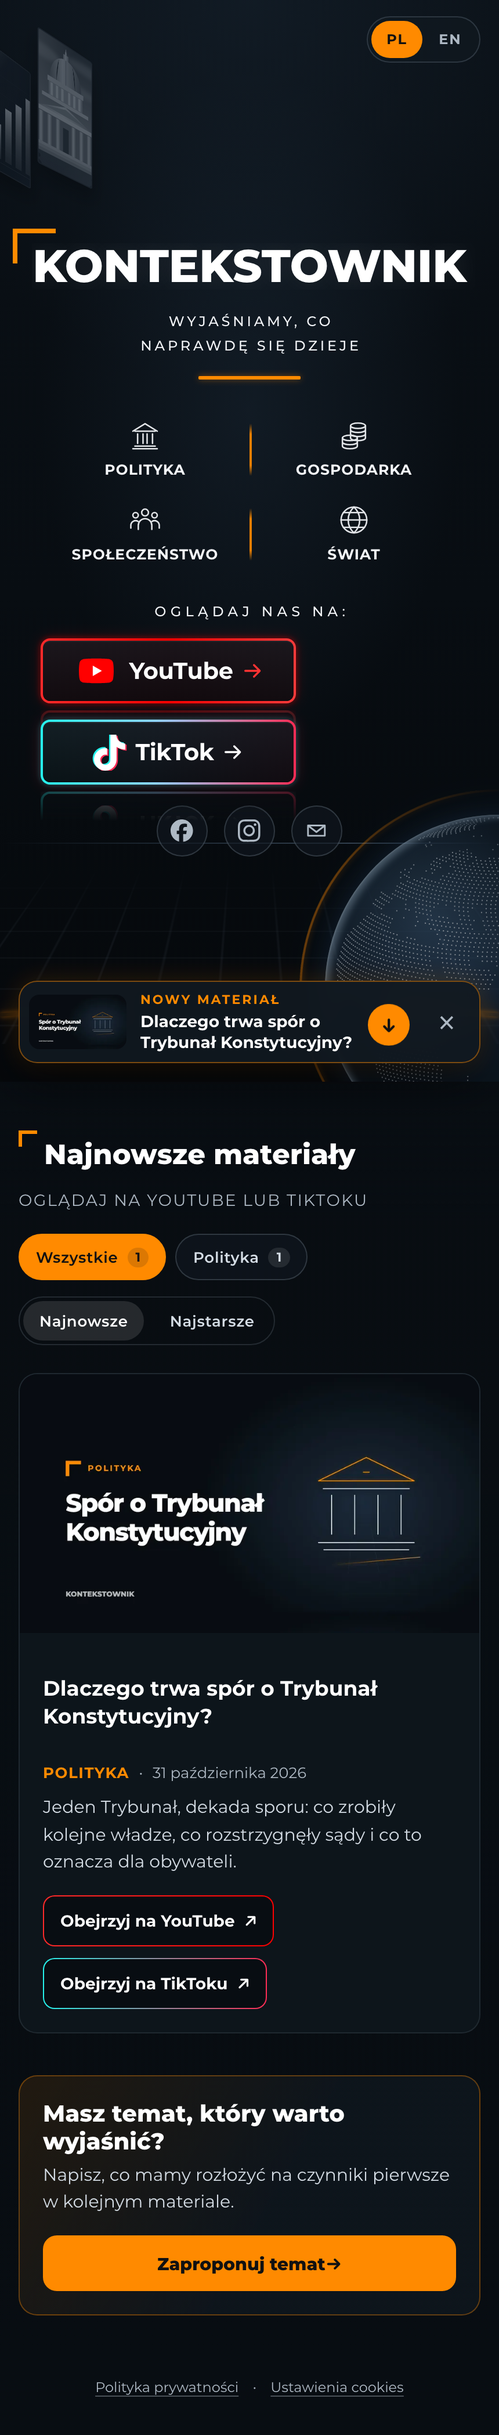
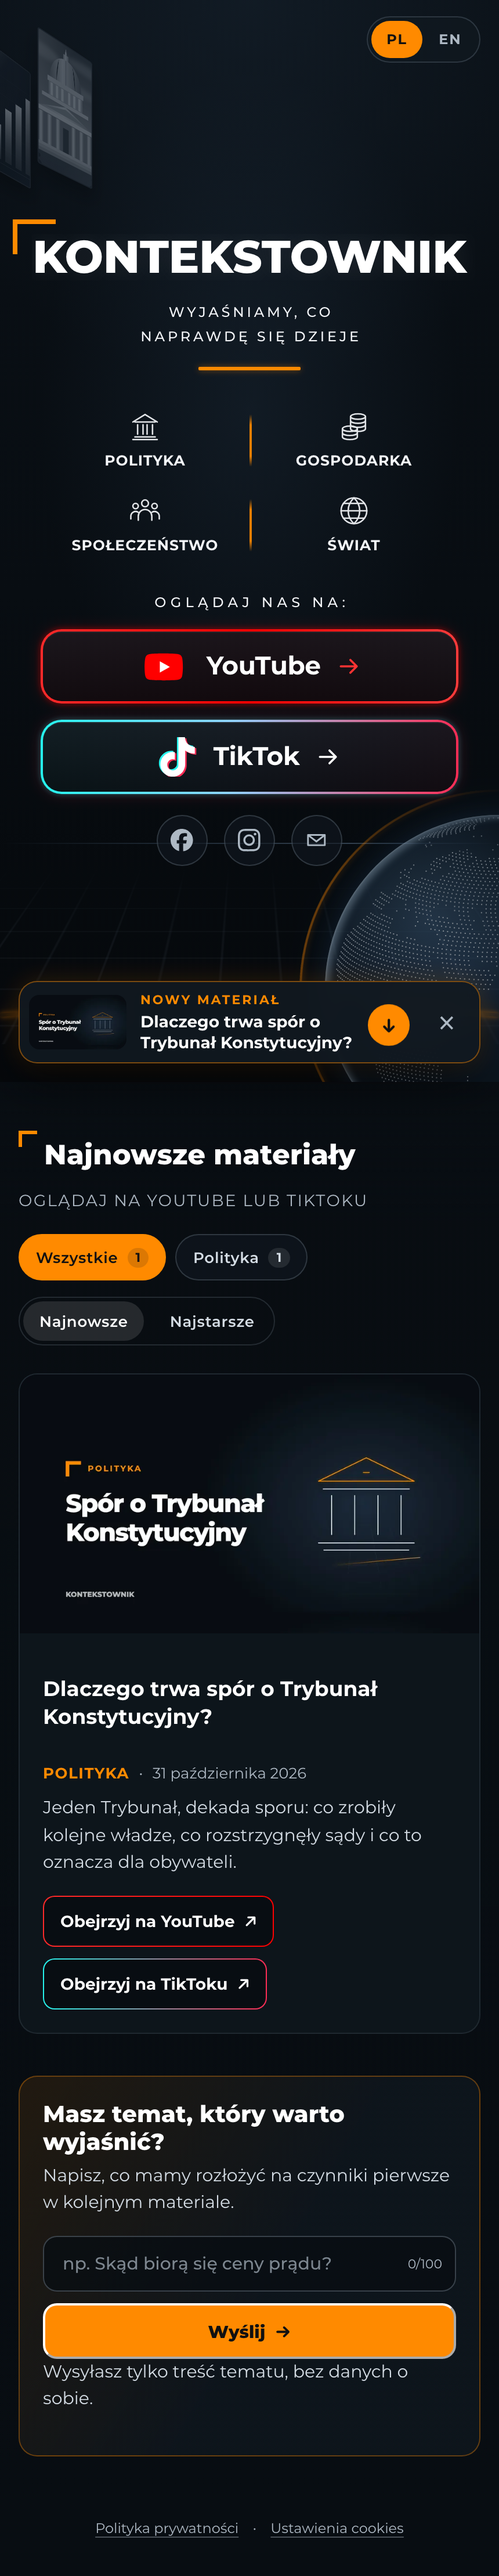
„Masz temat?”: pole do 100 znaków + Wyślij (Formularz Google, tylko treść, limit i pułapka na boty) zamiast maila; polityka prywatności PL/EN

diff --git a/src/scripts/topic-form.js b/src/scripts/topic-form.js
@@ -1,0 +1,44 @@
+// Wysyłka propozycji tematu (do 100 znaków) do Formularza Google. Wysyłamy wyłącznie treść tematu.
+// Odpowiedź Google jest nieprzezroczysta (no-cors), więc sukces = brak błędu sieci. Limit: 1 na minutę, 5 na dobę.
+const LIMIT_KEY = 'kontekstownik-topics';
+
+function recent() {
+  try { return JSON.parse(localStorage.getItem(LIMIT_KEY)) || []; } catch { return []; }
+}
+
+export function initTopicForms() {
+  document.querySelectorAll('[data-topic-form]').forEach((form) => {
+    const input = form.querySelector('input[name^="entry."]');
+    const count = form.querySelector('[data-topic-count]');
+    const status = form.querySelector('[data-topic-status]');
+    const hp = form.querySelector('[data-topic-hp]');
+    const button = form.querySelector('button[type="submit"]');
+    const say = (msg, ok) => { status.textContent = msg; status.dataset.state = ok ? 'ok' : 'err'; };
+
+    input.addEventListener('input', () => { count.textContent = `${input.value.length}/100`; status.textContent = ''; });
+
+    form.addEventListener('submit', async (e) => {
+      e.preventDefault();
+      const text = input.value.trim().replace(/\s+/g, ' ');
+      if (hp.value) return; // bot
+      if (text.length < 3) { say(form.dataset.short, false); input.focus(); return; }
+      const now = Date.now();
+      const sent = recent().filter((t) => now - t < 86400000);
+      if (sent.some((t) => now - t < 60000) || sent.length >= 5) { say(form.dataset.wait, false); return; }
+
+      button.disabled = true;
+      try {
+        await fetch(form.action, { method: 'POST', mode: 'no-cors', body: new URLSearchParams({ [input.name]: text }) });
+        try { localStorage.setItem(LIMIT_KEY, JSON.stringify([...sent, now])); } catch { /* bez limitu w trybie prywatnym */ }
+        form.reset();
+        count.textContent = '0/100';
+        say(form.dataset.ok, true);
+        window.gtag?.('event', 'topic_suggest'); // tylko fakt wysłania, nigdy treść
+      } catch {
+        say(form.dataset.err, false);
+      } finally {
+        button.disabled = false;
+      }
+    });
+  });
+}

diff --git a/src/styles/materials.css b/src/styles/materials.css
@@ -208,4 +208,31 @@
 }
 .topic-cta__btn:hover { transform: translateY(-2px); box-shadow: 0 8px 24px rgb(255 138 0 / 0.35); }
 .topic-cta__btn:focus-visible { outline: 3px solid #fff; outline-offset: 3px; }
-@media (max-width: 640px) { .topic-cta { padding: 20px; } .topic-cta__btn { width: 100%; justify-content: center; } }
+@media (max-width: 640px) { .topic-cta { padding: 20px; } }
+
+/* Pole propozycji tematu (topic-form.js) */
+.topic-form { flex: 1 1 380px; max-width: 560px; }
+.topic-form__row { position: relative; display: flex; gap: 10px; }
+.topic-form__input {
+  flex: 1;
+  min-width: 0;
+  width: 100%;
+  min-height: 48px;
+  padding: 0 64px 0 16px;
+  border-radius: 12px;
+  border: 1px solid rgb(200 220 240 / 0.25);
+  background: rgb(8 13 18 / 0.8);
+  color: #fff;
+  font: 500 15px/1.2 var(--font);
+}
+.topic-form__input::placeholder { color: rgb(174 185 196 / 0.7); }
+.topic-form__input:focus { outline: 3px solid var(--orange); outline-offset: 1px; border-color: transparent; }
+.topic-form__field { position: relative; flex: 1; min-width: 0; display: flex; }
+.topic-form__count { position: absolute; right: 12px; top: 50%; transform: translateY(-50%); font-size: 11px; color: var(--muted); pointer-events: none; }
+.topic-form__hint { margin: 8px 0 0; font-size: 12px; color: var(--muted); }
+.topic-form__status { margin: 6px 0 0; font-size: 14px; font-weight: 600; min-height: 1.2em; }
+.topic-form__status[data-state="ok"] { color: #7ee2a8; }
+.topic-form__status[data-state="err"] { color: #ffb1a8; }
+.topic-form__hp { position: absolute; left: -9999px; width: 1px; height: 1px; overflow: hidden; }
+.topic-cta__btn:disabled { opacity: 0.6; cursor: wait; }
+@media (max-width: 640px) { .topic-form__row { flex-direction: column; } .topic-cta__btn { justify-content: center; } }

diff --git a/polityka-prywatnosci/index.html b/polityka-prywatnosci/index.html
@@ -36,6 +36,10 @@
         Zbieramy informacje o wizycie: przybliżoną lokalizację (kraj, miasto), typ urządzenia i przeglądarki, źródło wejścia,
         odwiedzone podstrony oraz to, czy kliknięto przycisk YouTube lub TikTok. Google Analytics 4 nie zapisuje pełnych adresów IP.
         Sygnały reklamowe i Google Signals są wyłączone.</li>
+      <li><strong>Propozycja tematu</strong> – jeśli wyślesz temat przez pole „Masz temat, który warto wyjaśnić?”, trafia do nas
+        wyłącznie jego treść (do 100 znaków), zapisana w Formularzu Google na koncie administratora. Nie zbieramy przy tym adresu e-mail
+        ani innych danych o Tobie – prosimy, nie wpisuj w temacie danych osobowych. Podstawa: nasz prawnie uzasadniony interes
+        (art. 6 ust. 1 lit. f RODO) – poznanie tematów, które warto wyjaśnić.</li>
       <li><strong>Twój wybór w banerze</strong> – zapisujemy w pamięci przeglądarki (localStorage), żeby nie pytać przy każdej wizycie.
         Ta informacja nie trafia do nas.</li>
       <li><strong>Logi serwera</strong> – stronę udostępnia GitHub Pages (GitHub, Inc.). Jak każdy serwer, technicznie przetwarza

diff --git a/en/privacy-policy/index.html b/en/privacy-policy/index.html
@@ -36,6 +36,10 @@
         We collect information about the visit: approximate location (country, city), device and browser type, traffic source,
         pages viewed and whether the YouTube, TikTok or other channel buttons were clicked. Google Analytics 4 does not store full IP addresses.
         Advertising signals and Google Signals are switched off.</li>
+      <li><strong>Topic suggestions</strong> – if you send a topic through the “Got a topic worth explaining?” field, we receive
+        only its text (up to 100 characters), stored in a Google Form on the controller’s account. We do not collect your email address
+        or any other data about you – please do not include personal data in the topic. Legal basis: our legitimate interest
+        (Art. 6(1)(f) GDPR) – learning which topics are worth explaining.</li>
       <li><strong>Your banner choice</strong> – stored in your browser (localStorage) so we do not ask on every visit.
         This information does not reach us.</li>
       <li><strong>Server logs</strong> – the site is served by GitHub Pages (GitHub, Inc.). Like any server, it technically processes

diff --git a/src/scripts/main.js b/src/scripts/main.js
@@ -13,10 +13,12 @@ import '../styles/materials.css';
 import { initConsent } from './consent.js';
 import { initNewPill } from './new-pill.js';
 import { initMaterialsTools } from './materials-tools.js';
+import { initTopicForms } from './topic-form.js';
 
 initConsent();
 initNewPill();
 initMaterialsTools();
+initTopicForms();
 
 const reducedMotion = window.matchMedia('(prefers-reduced-motion: reduce)');
 

diff --git a/src/scripts/material.js b/src/scripts/material.js
@@ -9,6 +9,8 @@ import '../styles/material-page.css';
 import '../styles/lang.css';
 import { initConsent } from './consent.js';
 import { initShare } from './share.js';
+import { initTopicForms } from './topic-form.js';
 
 initConsent();
 initShare();
+initTopicForms();
